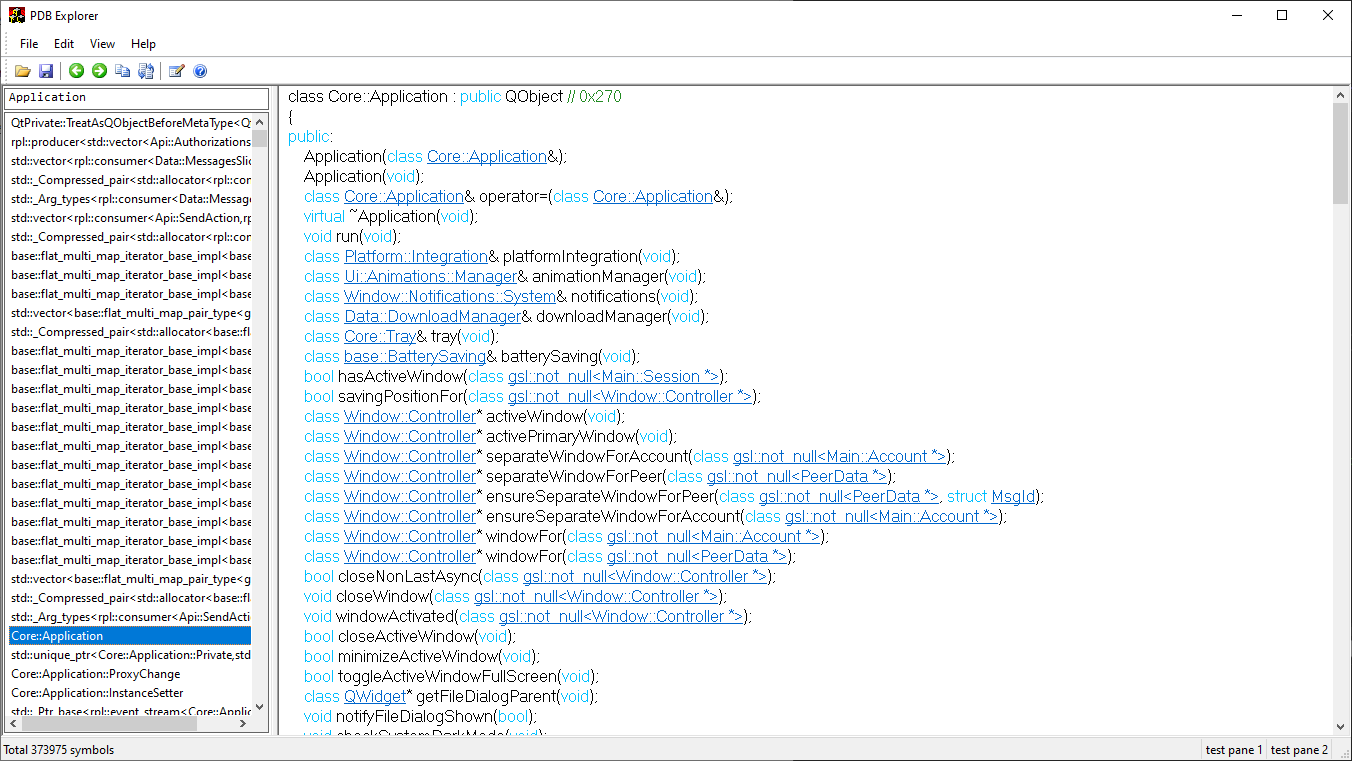
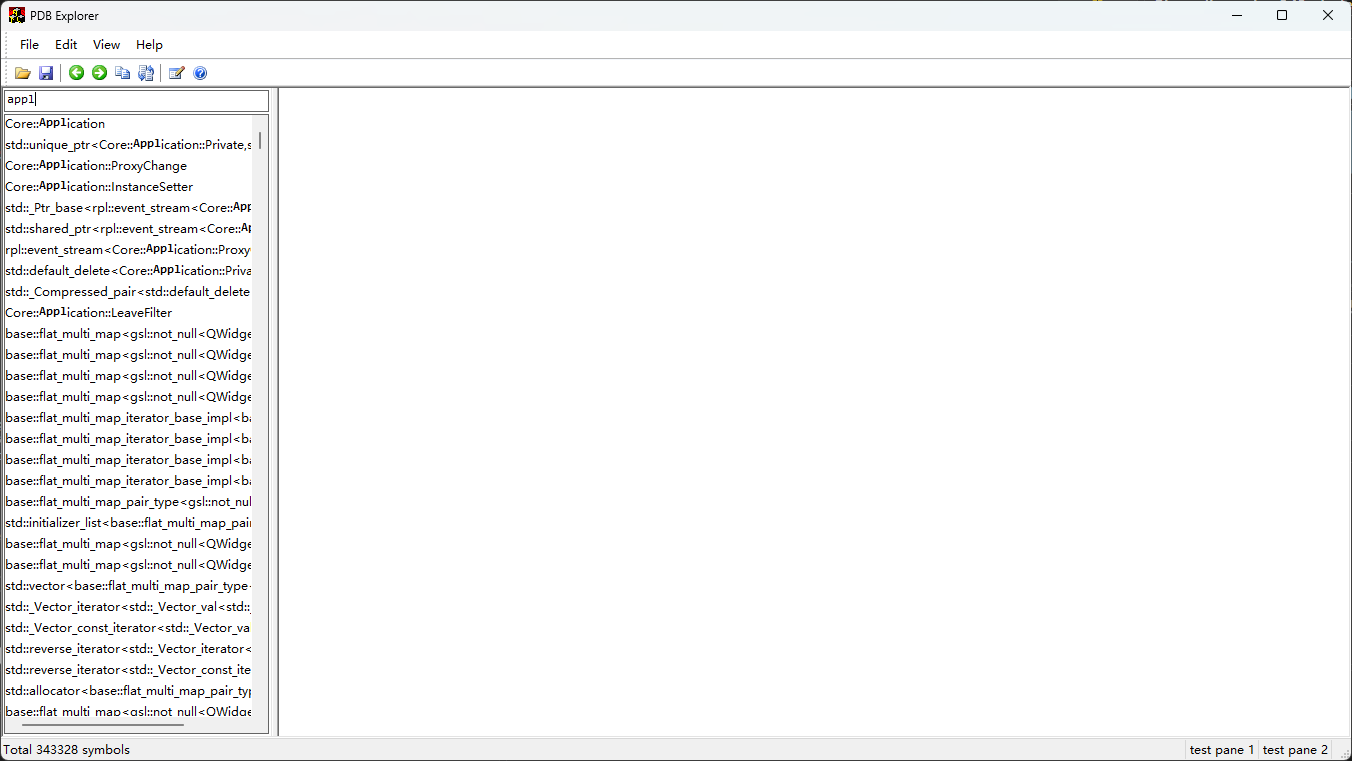
add search highlight keyword

Changed region(s): [[0.0, 0.0, 1.0, 1.0], [0.9941, 0.0, 1.0, 0.0302]]

diff --git a/CSearchView.h b/CSearchView.h
@@ -24,12 +24,14 @@ std::size_t flatten(std::multimap<K,V,std::greater<V>>& m, std::vector<V>& v)
 }
 
 class CSearchView : public CWindowImpl<CSearchView>,
-					public CThreadImpl<CSearchView>
+					public CThreadImpl<CSearchView>,
+					public CCustomDraw<CSearchView>
 {
 public:
     DECLARE_WND_CLASS(_T("WTL_SearchView"))
 
 	CFont m_font;
+	CFont m_font_bold;
     CContainedWindowT<CListViewCtrl> m_list;
 	CContainedWindowT<CEdit> m_search;
     CPdbCollector* m_symbols;
@@ -57,6 +59,20 @@ public:
 			SecureHelper::strcpy_x(lf.lfFaceName, LF_FACESIZE, _T("Tahoma"));
 		}
 		m_font.CreateFontIndirect(&lf);
+
+
+		lf.lfWeight = FW_BOLD;
+		if(RunTimeHelper::IsVista())
+		{
+			lf.SetHeight(9);
+			SecureHelper::strcpy_x(lf.lfFaceName, LF_FACESIZE, _T("Consolas"));
+		}
+		else
+		{
+			lf.SetHeight(8);
+			SecureHelper::strcpy_x(lf.lfFaceName, LF_FACESIZE, _T("Tahoma"));
+		}
+		m_font_bold.CreateFontIndirect(&lf);
 	}
 
 	BEGIN_MSG_MAP(CSearchView)
@@ -66,6 +82,7 @@ public:
 		COMMAND_CODE_HANDLER(EN_CHANGE, OnEditChange)
 		NOTIFY_CODE_HANDLER(LVN_GETDISPINFO, OnTvnGetdispinfoTree)
 		NOTIFY_CODE_HANDLER(NM_DBLCLK, OnSelChanged)
+		CHAIN_MSG_MAP( CCustomDraw<CSearchView> )
 		ALT_MSG_MAP(1)
         MESSAGE_HANDLER(WM_KEYDOWN, OnKeyDown)
         //MESSAGE_HANDLER(WM_LBUTTONDBLCLK, OnListLButtonDblClk)
@@ -187,6 +204,96 @@ public:
 		CT2CA atext(text);
 		::SendMessage(GetParent(), WM_SHOW_ITEM, pDetails->iSubItem, (LPARAM)(LPCSTR)atext);
 		return 0;
+	}
+
+	DWORD OnPreErase(int /*idCtrl*/, LPNMCUSTOMDRAW /*lpNMCustomDraw*/)
+	{
+		return CDRF_SKIPDEFAULT;
+	}
+
+	DWORD OnPrePaint(int /*idCtrl*/, LPNMCUSTOMDRAW /*lpNMCustomDraw*/)
+	{
+		return CDRF_NOTIFYITEMDRAW;
+	}
+
+	DWORD OnItemPrePaint(int /*idCtrl*/, LPNMCUSTOMDRAW lpNMCustomDraw)
+	{
+		LPNMTBCUSTOMDRAW lpNMTBCD = reinterpret_cast<LPNMTBCUSTOMDRAW>(lpNMCustomDraw);
+		CDCHandle dc = lpNMTBCD->nmcd.hdc;
+
+		DWORD row = lpNMTBCD->nmcd.dwItemSpec;
+		bool bIsFocus = (lpNMCustomDraw->uItemState & CDIS_FOCUS) != 0;
+
+		// Draw Selected item Background
+		CPen pen;
+		CBrush brush;
+		pen.CreatePen(PS_DOT, 1, RGB(0, 0, 0));
+		if(bIsFocus)
+			brush.CreateSolidBrush(::GetSysColor(CTLCOLOR_LISTBOX));
+		else
+			brush.CreateSolidBrush(RGB(255, 255, 255));
+
+		HPEN hOldPen = dc.SelectPen(pen);
+		HBRUSH hOldBrush = dc.SelectBrush(brush);
+		dc.FillRect(&lpNMTBCD->nmcd.rc, brush);
+		dc.SelectBrush(hOldBrush);
+		dc.SelectPen(hOldPen);
+
+		CString text;
+		m_list.GetItemText(row, 0, text);
+
+		const int max_match_index = 512;
+		uint32_t match_idx[max_match_index] = {0};
+		CString input;
+		m_search.GetWindowTextW(input);
+		if(!input.IsEmpty())
+		{
+			CT2CA ainput(input);
+			CT2CA atext(text);
+			fzf_slab_t* fzf_flab = fzf_make_default_slab();
+			fzf_pattern_t* fzf_pattern = fzf_parse_pattern(CaseSmart, false, ainput, true);
+			int score = fzf_get_score(atext, fzf_pattern, fzf_flab);
+			if (score > 0)
+			{
+				fzf_position_t* pos = fzf_get_positions(atext, fzf_pattern, fzf_flab);
+				if (pos)
+				{
+					for (size_t i = 0; i < pos->size; ++i)
+					{
+						match_idx[pos->data[i]] = 1;
+					}
+					fzf_free_positions(pos);
+				}
+			}
+			fzf_free_pattern(fzf_pattern);
+		}
+
+		RECT rect = lpNMTBCD->nmcd.rc;
+		int x = rect.left;
+		SIZE sz;
+		for(int i = 0; i < text.GetLength(); ++i)
+		{
+			TCHAR ch[2] = { text[i], '\0' };
+			if(match_idx[i])
+			{
+				HFONT hOldFont = dc.SelectFont(m_font_bold);
+				dc.DrawTextEx(ch, 1, &rect, DT_LEFT, NULL);
+
+				dc.GetTextExtent(ch, 1, &sz);
+				x += sz.cx;
+				rect.left = x;
+				dc.SelectFont(hOldFont);
+			}
+			else
+			{
+				dc.DrawTextEx(ch, 1, &rect, DT_LEFT, NULL);
+				dc.GetTextExtent(ch, 1, &sz);
+				x += sz.cx;
+				rect.left = x;
+			}
+		}
+
+		return CDRF_SKIPDEFAULT;
 	}
 
     void SetDataSource(CPdbCollector* collector)
